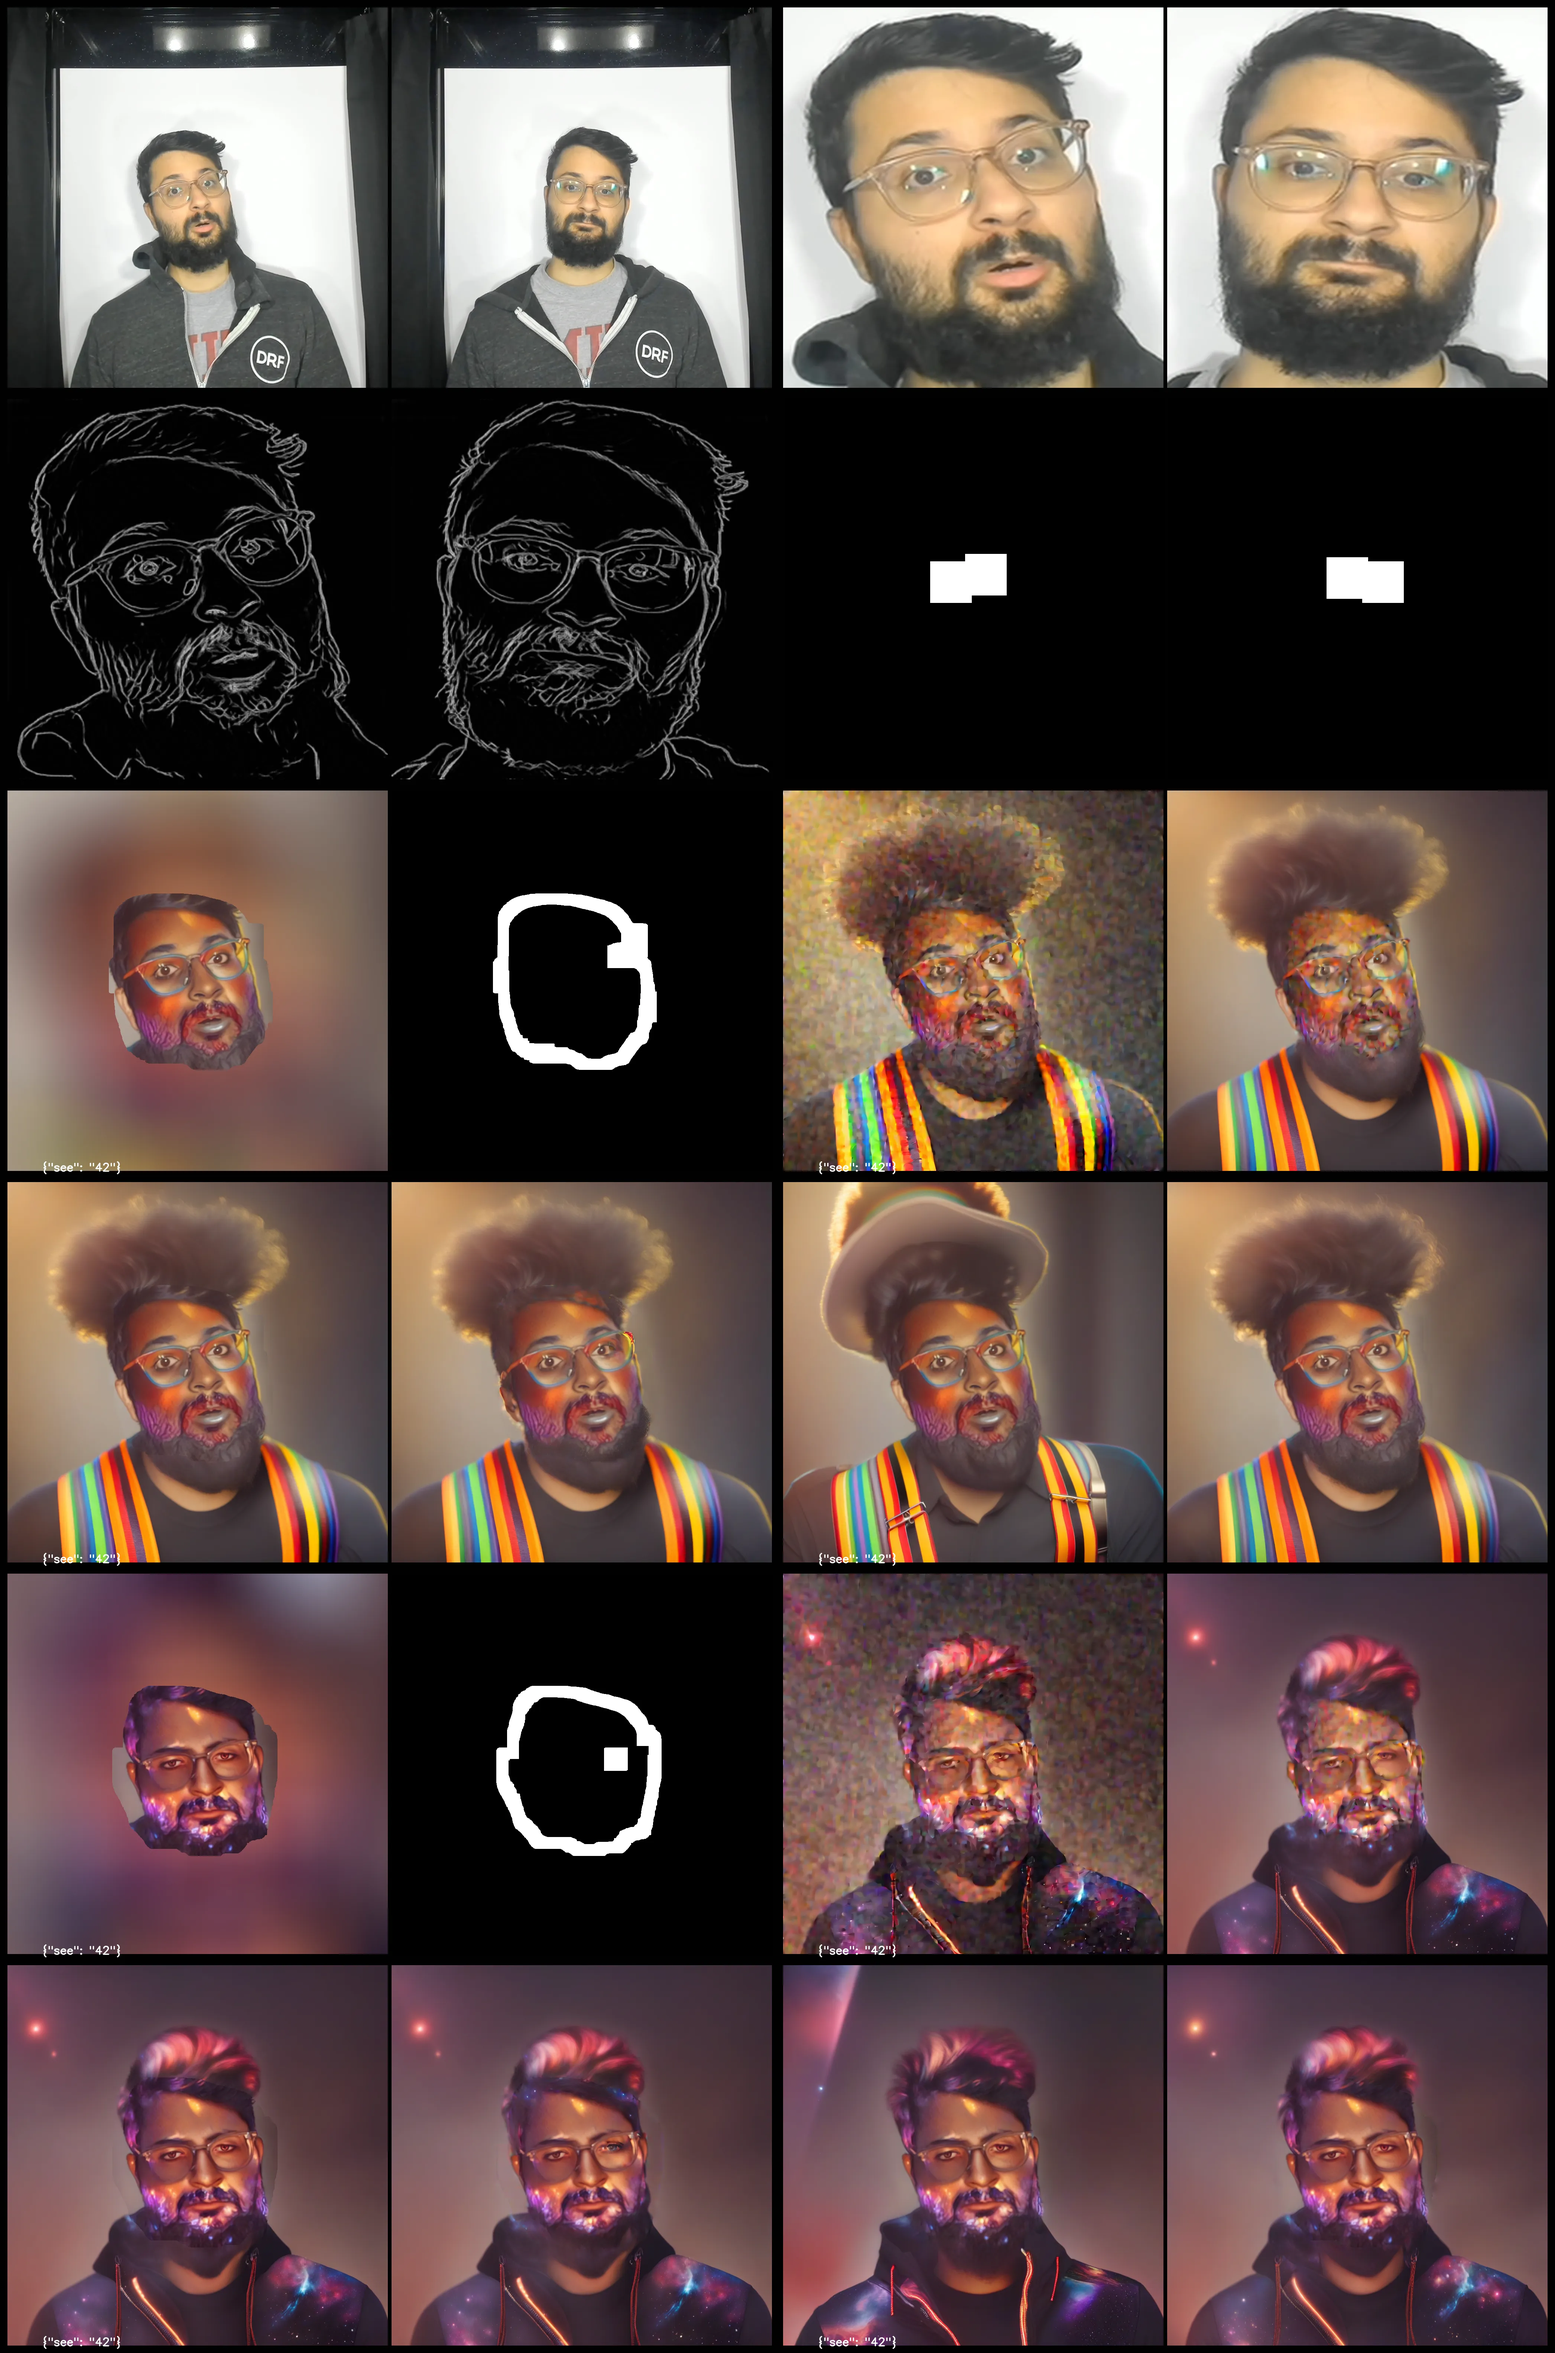
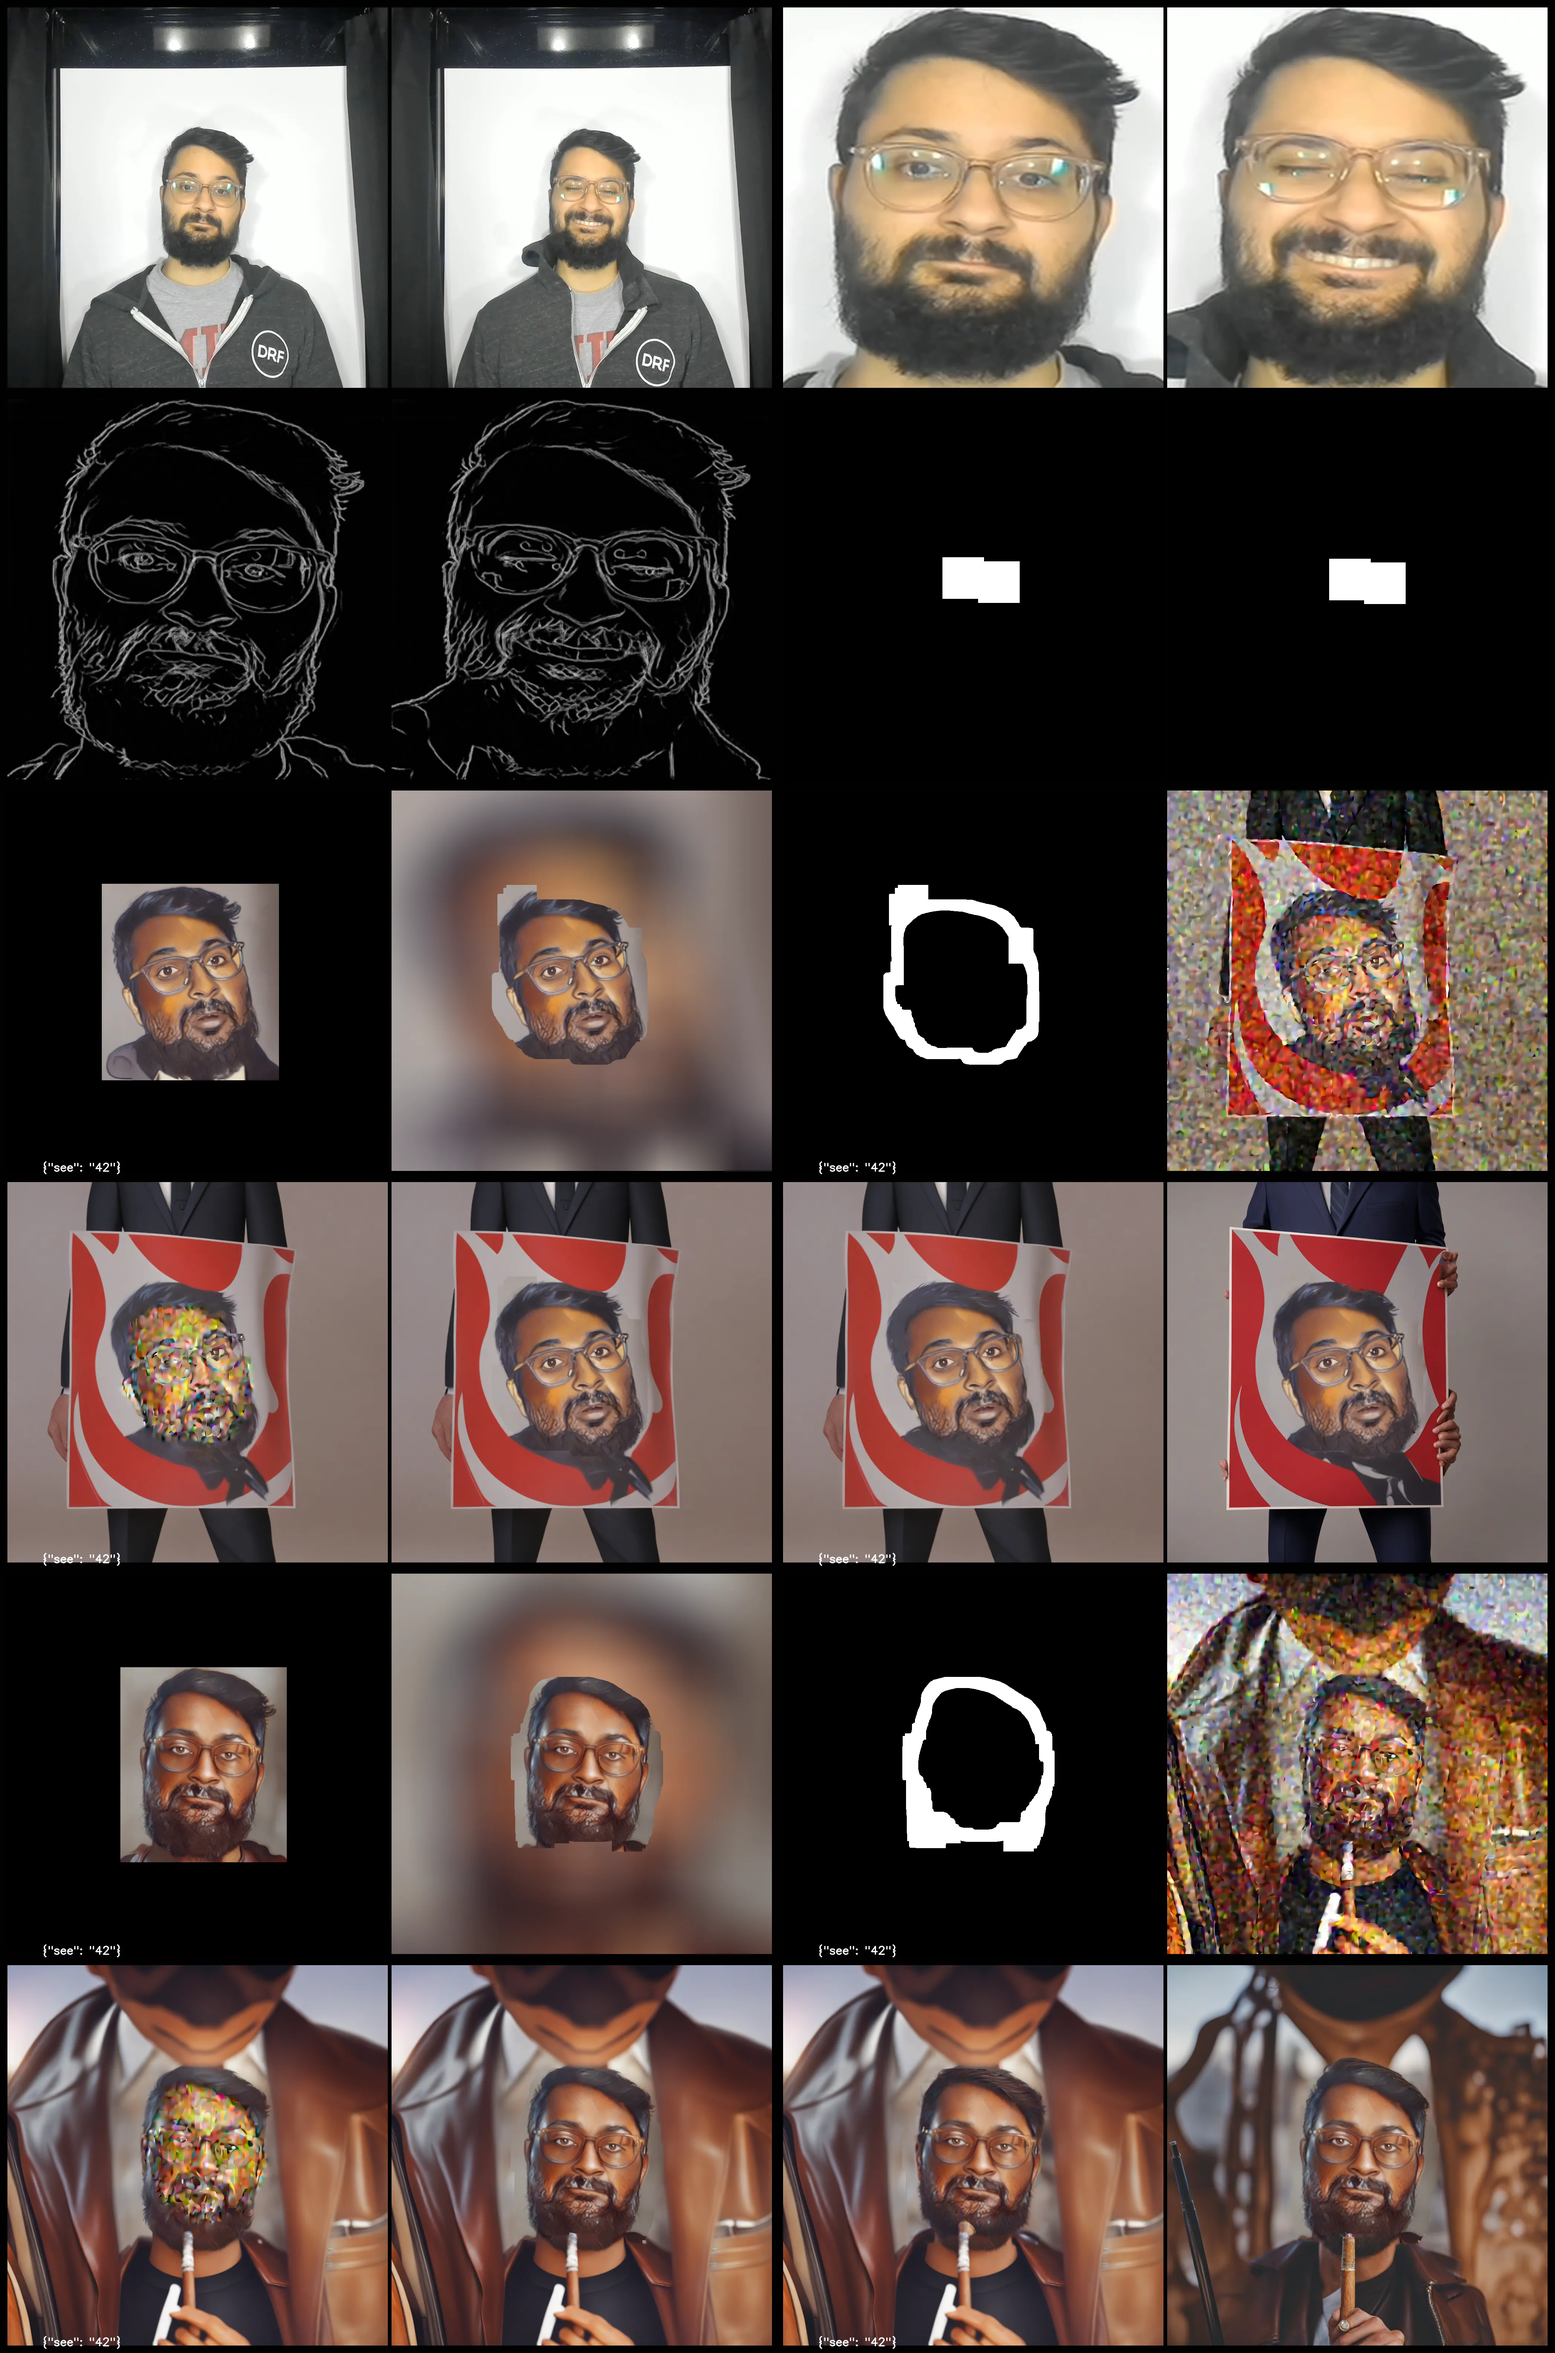
better prompts.

diff --git a/one_shot/params.py b/one_shot/params.py
@@ -62,27 +62,28 @@ class Params(BaseModel):
     model: Model = Model()
     batch_size: int = 4
 
-    negative_prompt = "box+, (picture frame)++, boxy, rectangle+, extra fingers, ugly+, blurry+, fuzzy+, monotone, dreary, extra digit, fewer digits, eyes closed, extra eyes, bad smile, cropped, worst quality, low quality, glitch, deformed, mutated, disfigured, text"
-    refine_negative_prompt = "face+++, eyes+++, brow, (double face), (extra eyes), (multiple faces)+, extra digits, extra fingers, extra limbs, deformed"
-    prompt_template = "4k photo, realistic, cinematic effect, hyperrealistic+, sharp, (highly detailed)+, nice smile, (airbrushed)0.2, (beautiful)0.2"
+    negative_prompt = "box+, (picture frame)++, boxy, rectangle+, (extra fingers)++, ugly+, blurry+, fuzzy+, monotone, dreary, extra digit, fewer digits, eyes closed, extra eyes, bad smile, cropped, worst quality, low quality, glitch, deformed, mutated, disfigured, text"
+    refine_negative_prompt = "face+++, eyes+++, brow, (double face), (extra eyes), (multiple faces)+, (extra digits)+, extra limbs, deformed"
+    prompt_template = "4k photo, realistic, cinematic effect, hyperrealistic+, sharp, (highly detailed)+, nice smile, (airbrushed)0.2, (beautiful)0.2, (white teeth)0.2"
     prompt_prefix = "{prompt}, {ethnicity} {gender}"
     refine_prompt_prefix = "{prompt}"
     inpaint_prompt_template = "{color} eyes, perfecteyes++, (detailed pupils)+, subtle eyes, natural eyes, realistic eyes, ({ethnicity} {gender})0.1, ({prompt})0.8"
     prompts = [
-        "a clown on a sunny day, thin rainbow stripe suspenders",
-        "mysterious, floating in the universe, cosmos and nebula reflected in clothing, cyberpunk vibes",
-        # "90s style, leather jacket, smug, vintage, antique car, smoking cigar",
-        # "classy {gender}, wearing a pinstripe suit, pop art style, painting by andy warhol",
-        # "zombie, (decaying skin and clothing)-, (rotting skin)-, inside an abandoned building",
-        # "(8-bit video game)++++, pixelated++, minecraft+, lego, blocky, elementary colors"
-        # "Marvel++ superhero+, superhero costume+, mask, simple color, flying in the air, high contrast",
-        # "a monarch+ wearing a crown+++, game of thrones, on the iron throne, magestic, regal, powerful, bold",
-        # "character from tron, neon, techno, futuristic, dark background, black clothing, (high contrast)++",
+        # "a clown on a sunny day, thin rainbow stripe suspenders",
+        # "mysterious, floating in the universe, cosmos and nebula reflected in clothing, cyberpunk vibes",
+        # "90s style, leather jacket, smug, vintage, smoking cigar",
+        # "classy, pinstripe suit, pop art style, andy warhol",
+        "zombie, decaying skin and clothing, rotting skin, inside an abandoned building",
+        "8-bit video game, pixelated, minecraft, lego, blocky, elementary colors"
+        # "Marvel superhero, superhero costume, mask, simple colors, flying in the air, high contrast",
+        # "a monarch wearing a crown, game of thrones, on the iron throne, magestic, regal, powerful, bold",
+        # "character from tron, neon, techno, futuristic, dark background, black clothing, high contrast",
+        # "creative yearbook photo, mean girls, high school, teenage angst",
     ] * 2
 
     seed: Optional[int] = None
-    steps: int = 20
-    inpainting_steps = 15
+    steps: int = 15
+    inpainting_steps = 10
     images: int = 2
 
     detect_resolution: int = 384
@@ -92,5 +93,5 @@ class Params(BaseModel):
     conditioning_strength: tuple[float, float] = (1.50, 1.52)
     conditioning_factor: float = 1.0
     lora_scale = 0.4
-    high_noise_frac: float = 0.90
+    high_noise_frac: float = 0.85
     mask_padding: float = 0.055

diff --git a/one_shot/dreambooth/model.py b/one_shot/dreambooth/model.py
@@ -229,7 +229,7 @@ class Model:
         frames: list[Image.Image] = []
         dims = (self.params.model.resolution, self.params.model.resolution)
         for idx, face in enumerate(request.generation.faces):
-            padding = self.params.mask_padding * random.triangular(2.4, 2.8)
+            padding = self.params.mask_padding * random.triangular(2.1, 2.5)
 
             bounds = Bounds.from_face(dims, face)
             slice = bounds.slice(padding)
@@ -306,7 +306,7 @@ class Model:
             image = np.array(
                 faces[idx]
                 .resize(frame.shape[:2])
-                .filter(ImageFilter.BoxBlur(radius=150)),
+                .filter(ImageFilter.BoxBlur(radius=100)),
                 dtype=np.uint8,
             )
 
@@ -396,8 +396,8 @@ class Model:
         final = []
         for idx, img in enumerate(refined):
             img = np.array(img)
-            slice = (np.asarray(masks[idx]) == 0) & (np.asarray(frames[idx]) != 0)
-            img[slice] = np.asarray(frames[idx])[slice]
+            slice = np.asarray(masks[idx].convert("RGB")) == 0
+            img[slice] = np.asarray(images[idx])[slice]
             final.append(to_pil_image(img))
 
         final_refined = [
@@ -416,24 +416,11 @@ class Model:
         ]
 
         final_refined2 = [
-            self.models.inpainter(
-                image=final,
-                mask_image=masks[idx],
-                generator=generator,
-                strength=0.65,
-                guidance_scale=self.params.guidance_scale,
-                num_inference_steps=self.params.inpainting_steps,
-                **prompts.kwargs_for_inpainter(idx),
-            ).images[0]
-            for idx, final in enumerate(final)
-        ]
-
-        final_refined3 = [
             self.models.bg_refiner(
                 image=final,
-                mask_image=masks[idx],
+                mask_image=og_masks[idx],
                 generator=generator,
-                strength=0.15,
+                strength=0.75,
                 guidance_scale=self.params.guidance_scale,
                 num_inference_steps=self.params.inpainting_steps,
                 **prompts.kwargs_for_refiner(idx),
@@ -441,8 +428,10 @@ class Model:
             for idx, final in enumerate(final)
         ]
 
+        # return final_refined2
+
         return [
-            # frames[0],
+            frames[0],
             images[0],
             # masks[0].convert("RGB"),
             # og_masks[0].convert("RGB"),
@@ -454,5 +443,4 @@ class Model:
             final[0],
             final_refined[0],
             final_refined2[0],
-            final_refined3[0],
         ]
